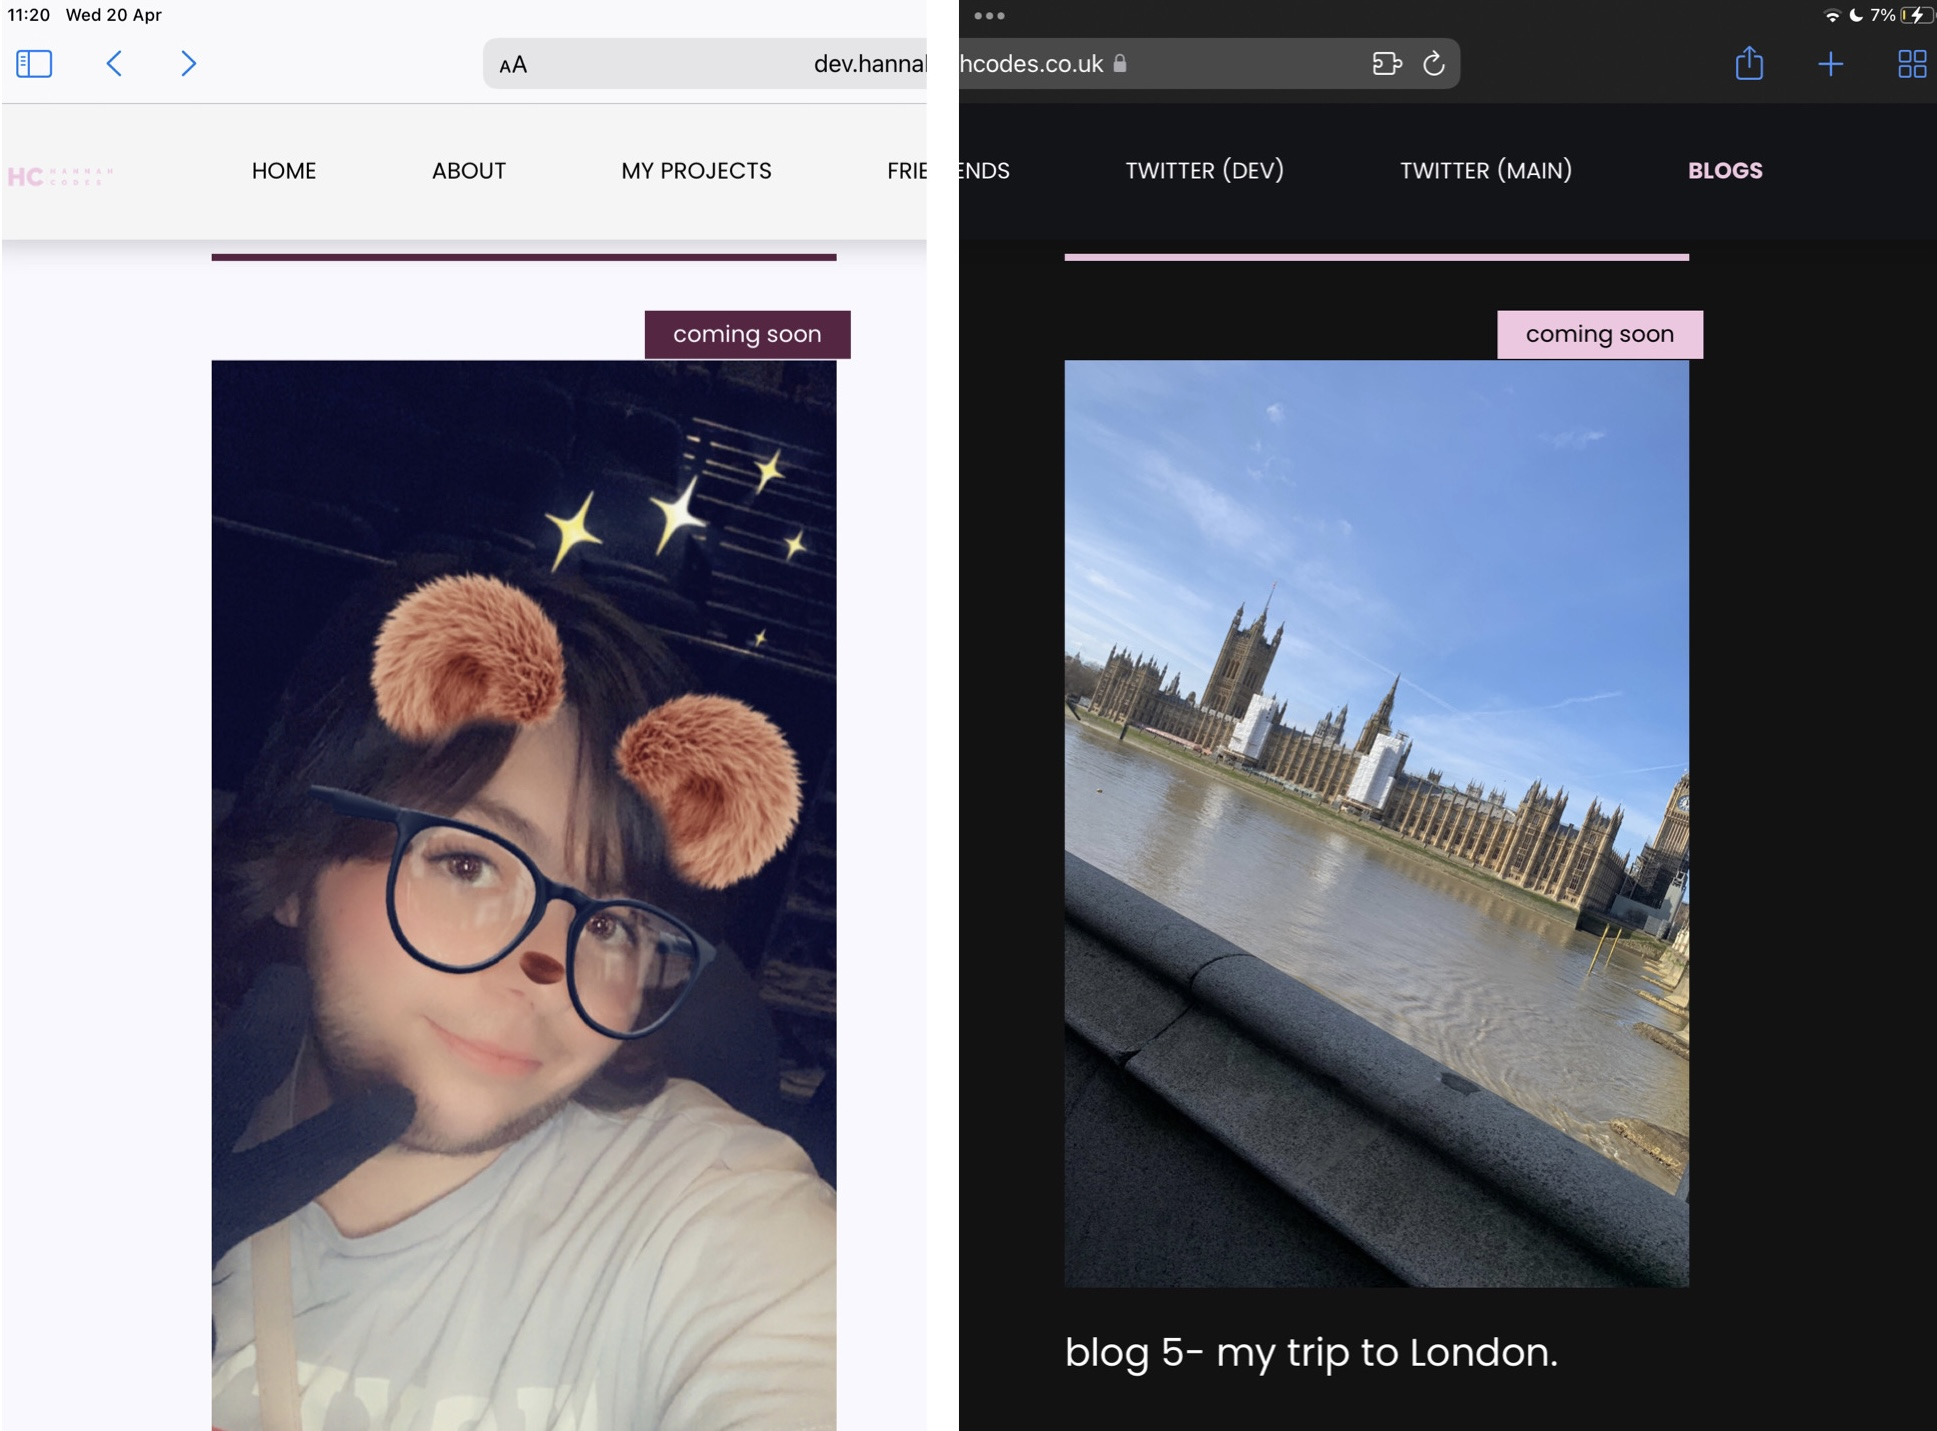
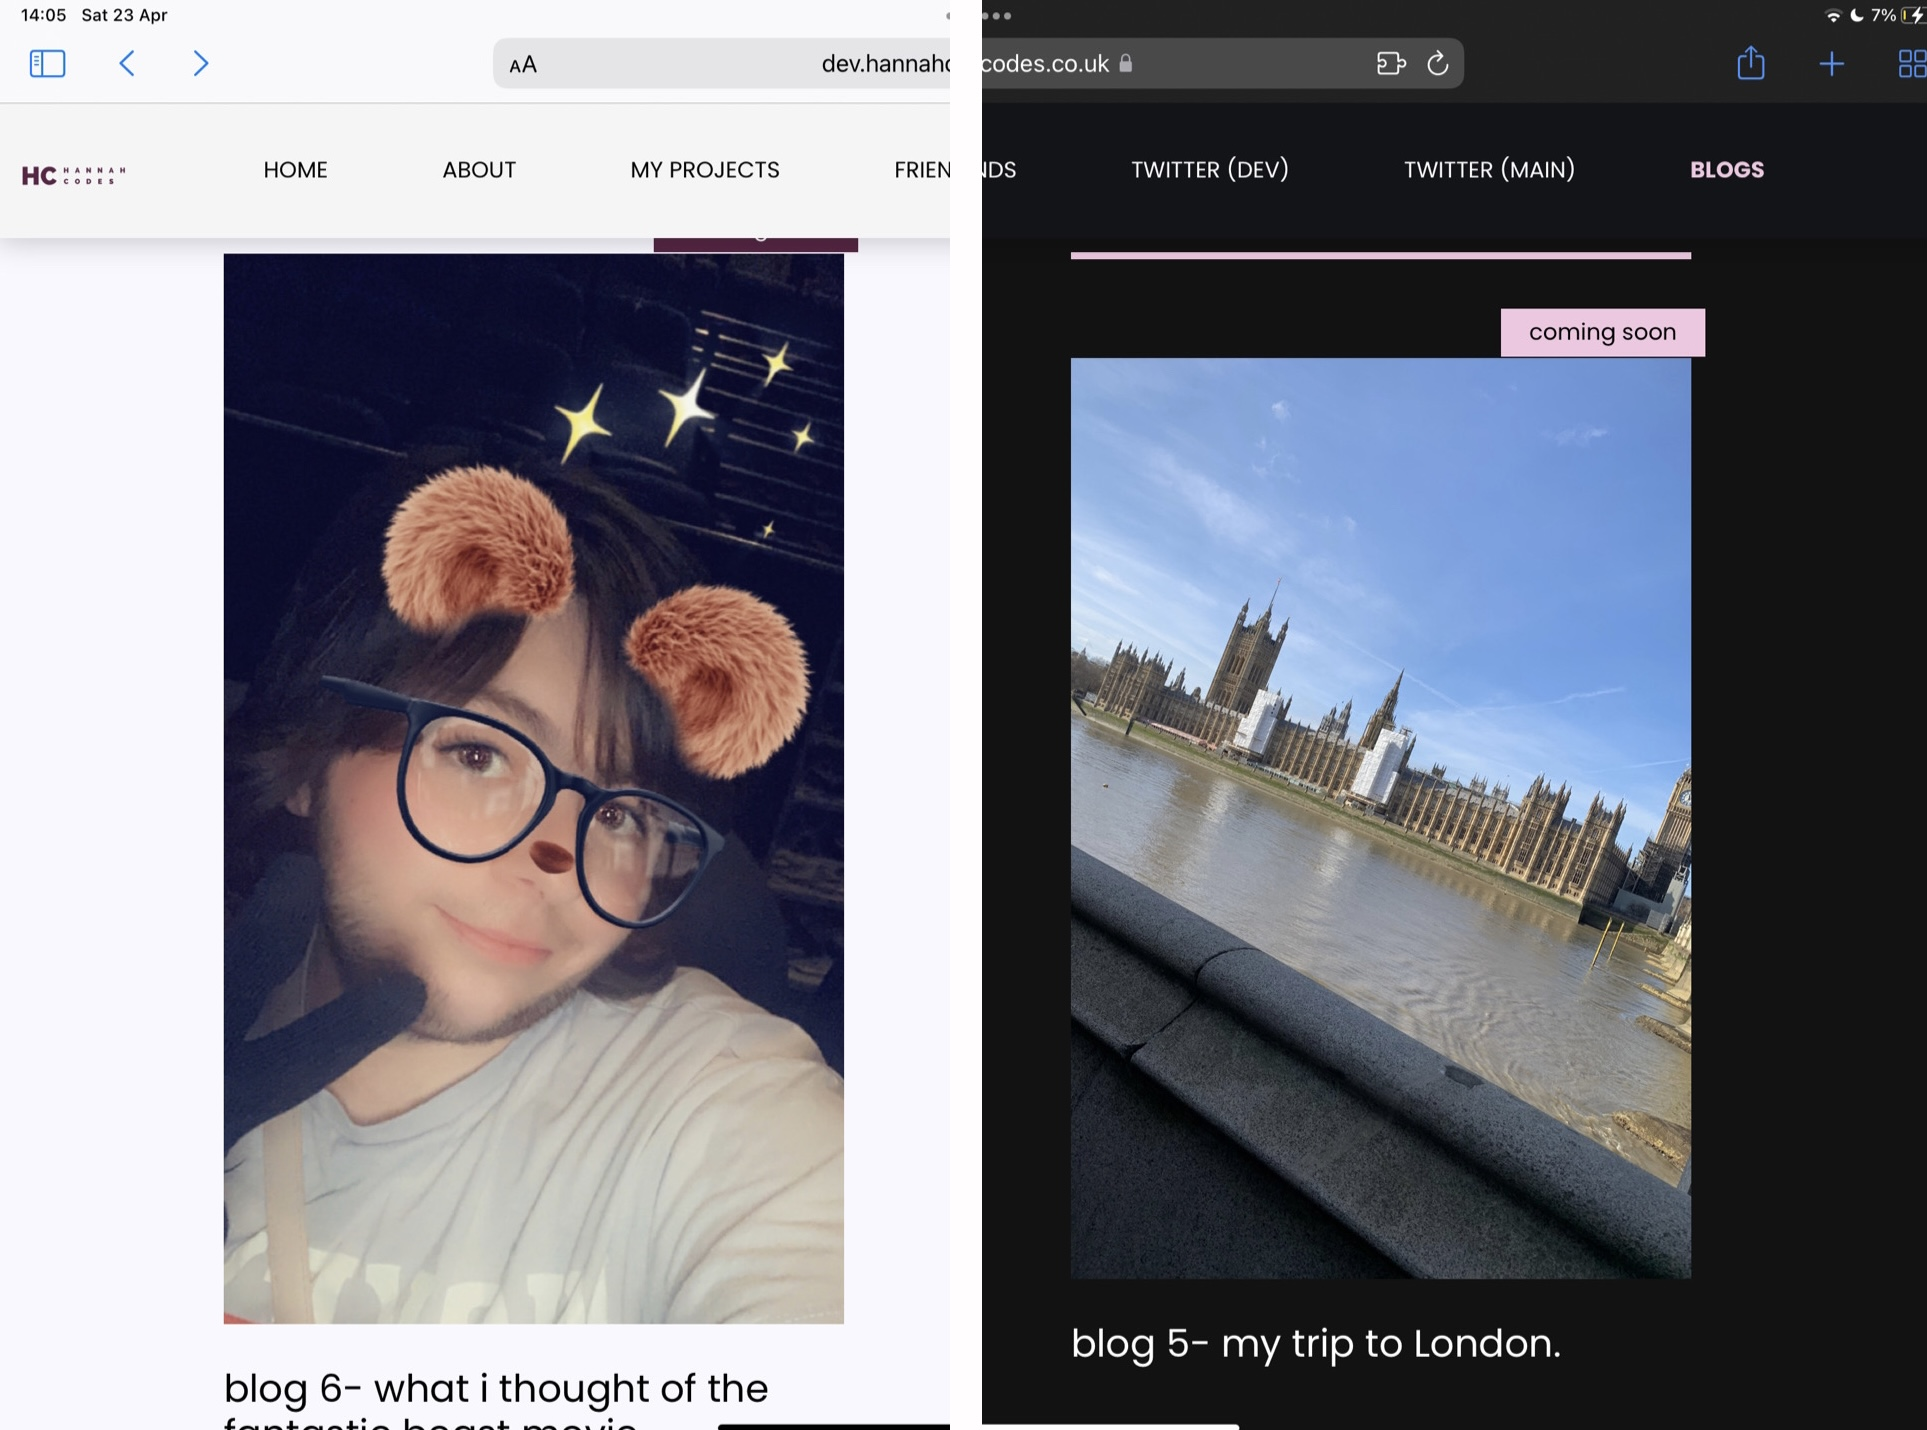
updated image card previews

diff --git a/index.html b/index.html
@@ -80,7 +80,7 @@ class="bg"
                 <img
                 class="projects_img"
                  alt=""
-                 src="/assets/images/projects/hc-v9.png"
+                 src="/assets/images/projects/hc-v10.jpeg"
                   draggable="false"
                   />
                   <div class="project_links_placement"><div class="link_placement"><a href="https://dev.hannahcodes.co.uk" class="projects_links"> dev.hannahcodes.co.uk</a> <svg xmlns="http://www.w3.org/2000/svg" viewBox="0 0 512 512"><!--! Font Awesome Pro 6.1.1 by @fontawesome - https://fontawesome.com License - https://fontawesome.com/license (Commercial License) Copyright 2022 Fonticons, Inc. --><path d="M384 320c-17.67 0-32 14.33-32 32v96H64V160h96c17.67 0 32-14.32 32-32s-14.33-32-32-32L64 96c-35.35 0-64 28.65-64 64V448c0 35.34 28.65 64 64 64h288c35.35 0 64-28.66 64-64v-96C416 334.3 401.7 320 384 320zM488 0H352c-12.94 0-24.62 7.797-29.56 19.75c-4.969 11.97-2.219 25.72 6.938 34.88L370.8 96L169.4 297.4c-12.5 12.5-12.5 32.75 0 45.25C175.6 348.9 183.8 352 192 352s16.38-3.125 22.62-9.375L416 141.3l41.38 41.38c9.156 9.141 22.88 11.84 34.88 6.938C504.2 184.6 512 172.9 512 160V24C512 10.74 501.3 0 488 0z"/></svg> </div> </div> 

diff --git a/projects.html b/projects.html
@@ -177,7 +177,7 @@ class="bg"
       <img
       class="projects_img"
        alt=""
-       src="/assets/images/projects/hc-v9.png"
+       src="/assets/images/projects/hc-v10.jpeg"
         draggable="false"
         />
         <div class="project_links_placement"><div class="link_placement"><a href="https://dev.hannahcodes.co.uk" class="projects_links"> dev.hannahcodes.co.uk (Dev builds)</a> <svg xmlns="http://www.w3.org/2000/svg" viewBox="0 0 512 512"><!--! Font Awesome Pro 6.1.1 by @fontawesome - https://fontawesome.com License - https://fontawesome.com/license (Commercial License) Copyright 2022 Fonticons, Inc. --><path d="M384 320c-17.67 0-32 14.33-32 32v96H64V160h96c17.67 0 32-14.32 32-32s-14.33-32-32-32L64 96c-35.35 0-64 28.65-64 64V448c0 35.34 28.65 64 64 64h288c35.35 0 64-28.66 64-64v-96C416 334.3 401.7 320 384 320zM488 0H352c-12.94 0-24.62 7.797-29.56 19.75c-4.969 11.97-2.219 25.72 6.938 34.88L370.8 96L169.4 297.4c-12.5 12.5-12.5 32.75 0 45.25C175.6 348.9 183.8 352 192 352s16.38-3.125 22.62-9.375L416 141.3l41.38 41.38c9.156 9.141 22.88 11.84 34.88 6.938C504.2 184.6 512 172.9 512 160V24C512 10.74 501.3 0 488 0z"/></svg></div> </div>
